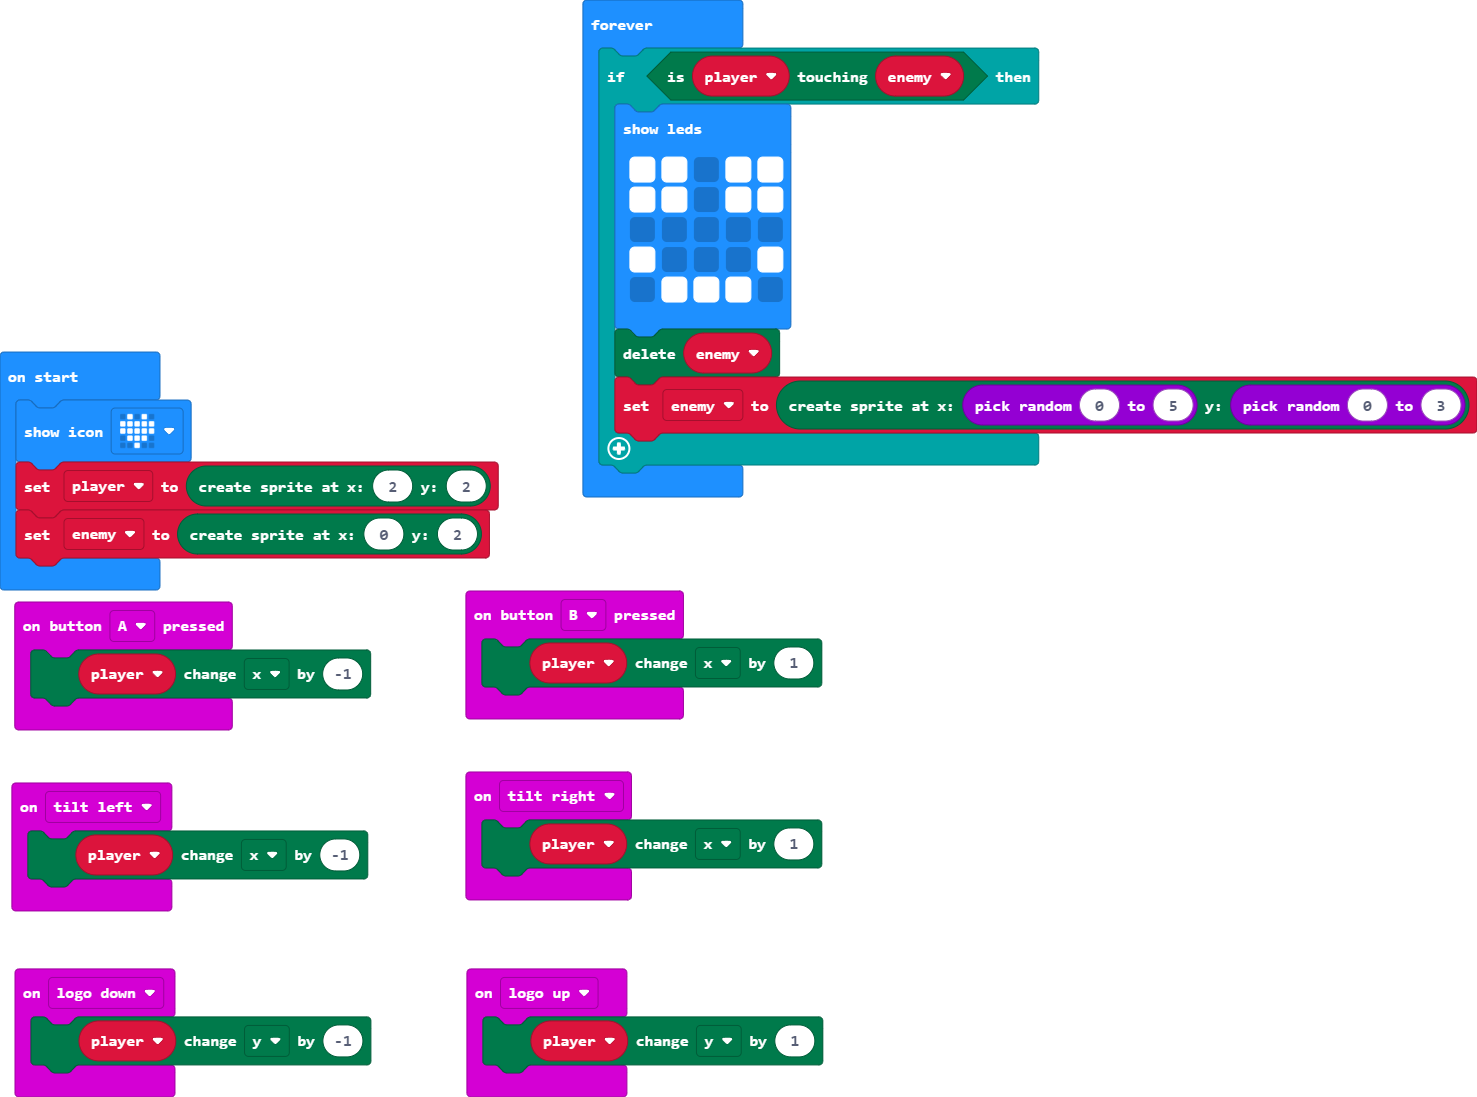
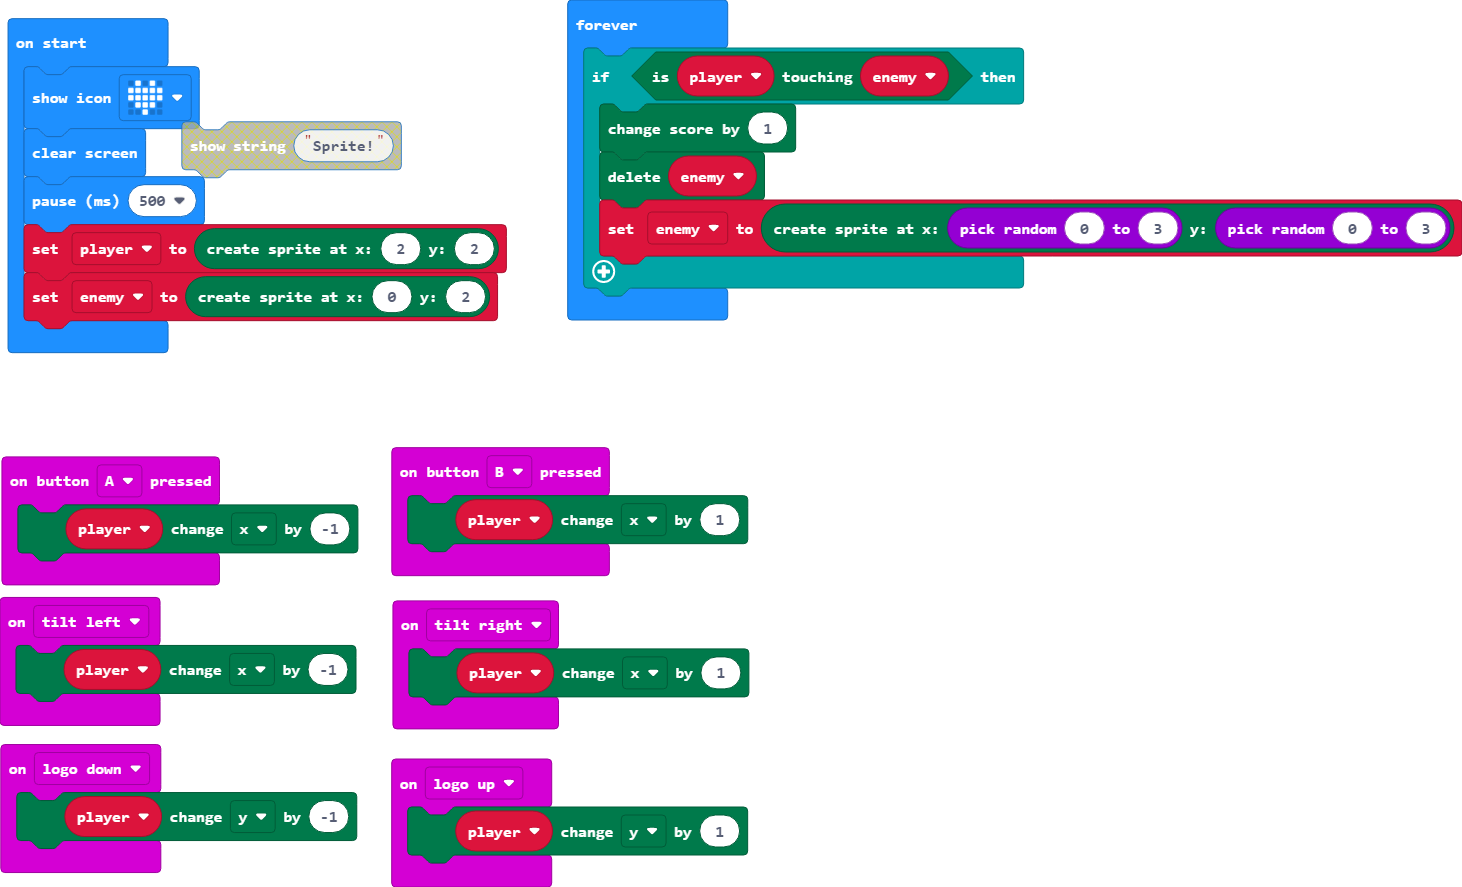
Update main.blocks, main.ts

diff --git a/main.ts b/main.ts
@@ -18,18 +18,14 @@ input.onGesture(Gesture.LogoDown, function () {
 })
 let player: game.LedSprite = null
 basic.showIcon(IconNames.Heart)
-player = game.createSprite(0, 0)
-let enemy = game.createSprite(randint(0, 4), randint(4, 0))
+basic.clearScreen()
+basic.pause(500)
+player = game.createSprite(2, 2)
+let enemy = game.createSprite(0, 2)
 basic.forever(function () {
     if (player.isTouching(enemy)) {
-        basic.showLeds(`
-            # # . # #
-            # # . # #
-            . . . . .
-            # . . . #
-            . # # # .
-            `)
+        game.addScore(1)
         enemy.delete()
-        enemy = game.createSprite(randint(0, 5), randint(0, 3))
+        enemy = game.createSprite(randint(0, 3), randint(0, 3))
     }
 })
